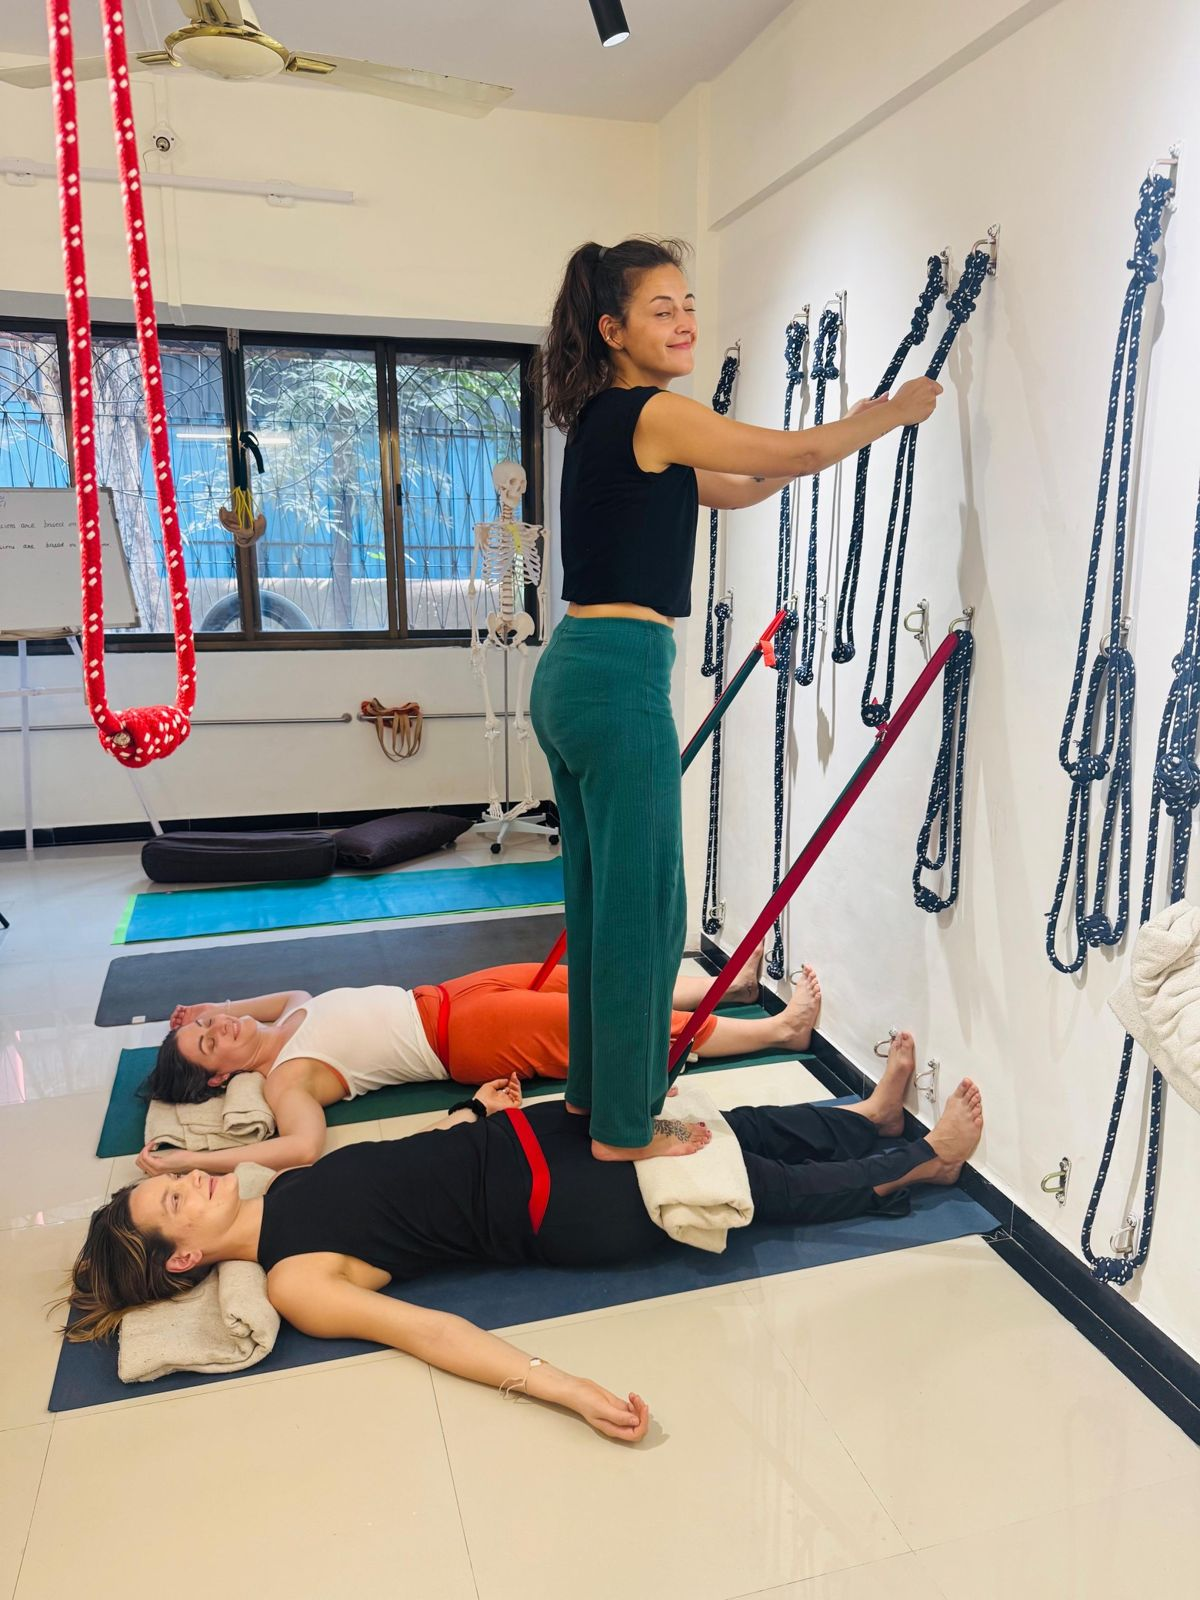
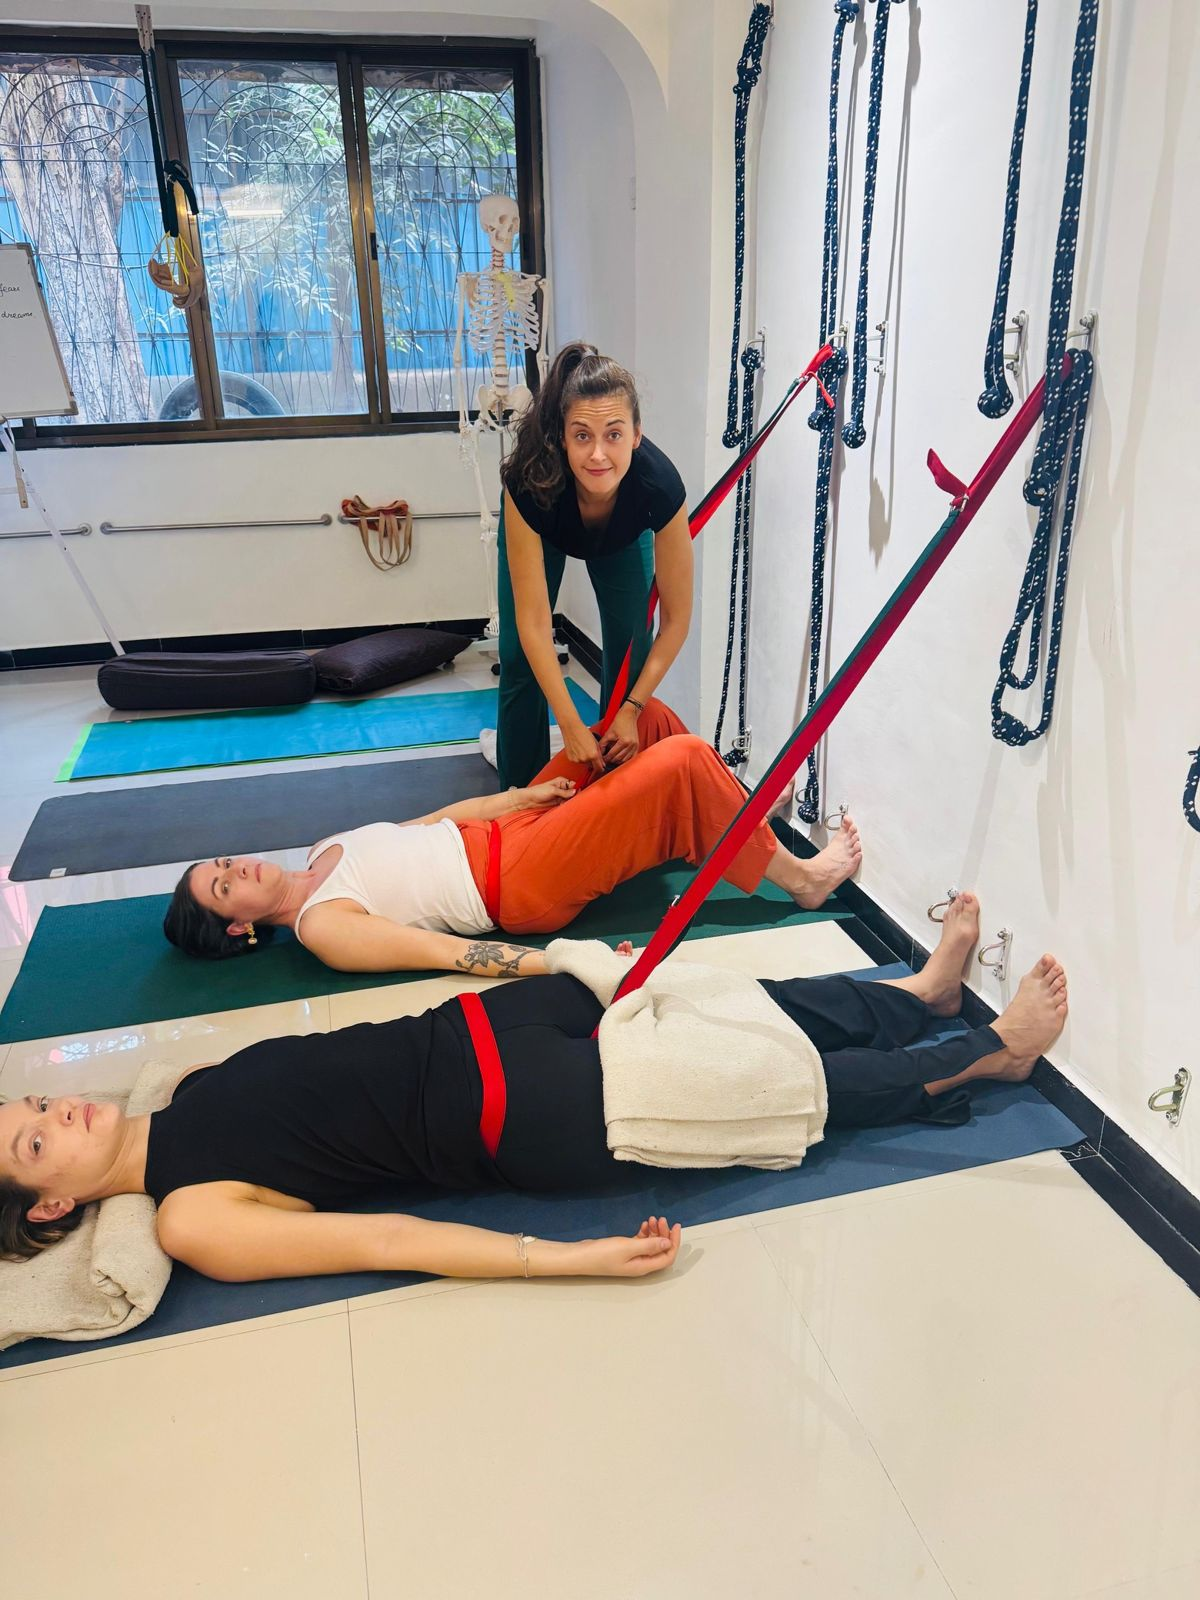
Moje cesta: nová fotka ke kapitole 06
Claude-Session: https://claude.ai/code/session_014ZRf3QFL3byTkoFMZ9HgQF

diff --git a/assets/style.css b/assets/style.css
@@ -552,7 +552,7 @@ td small { display: block; color: var(--muted); }
 .tl-item figure img[src$="pred-jogou.jpg"] { object-position: 22% center; }
 .tl-item figure img[src$="indie-maisur.jpg"] { object-position: 62% center; }
 .tl-item figure img[src$="lenka-snorchl-vyrez.jpg"] { object-position: center top; }
-.tl-item figure img[src$="indie-terapie.jpg"] { object-position: center top; }
+.tl-item figure img[src$="indie-terapie.jpg"] { object-position: center 45%; }
 .tl-item figure img[src$="prerov-navrat.jpg"] { object-position: center 35%; }
 .tl-item figure img[src$="indie-setkani.jpg"] { object-position: 55% center; }
 .tl-item.has-fig figure { width: 100%; max-width: 380px; justify-self: stretch; }
